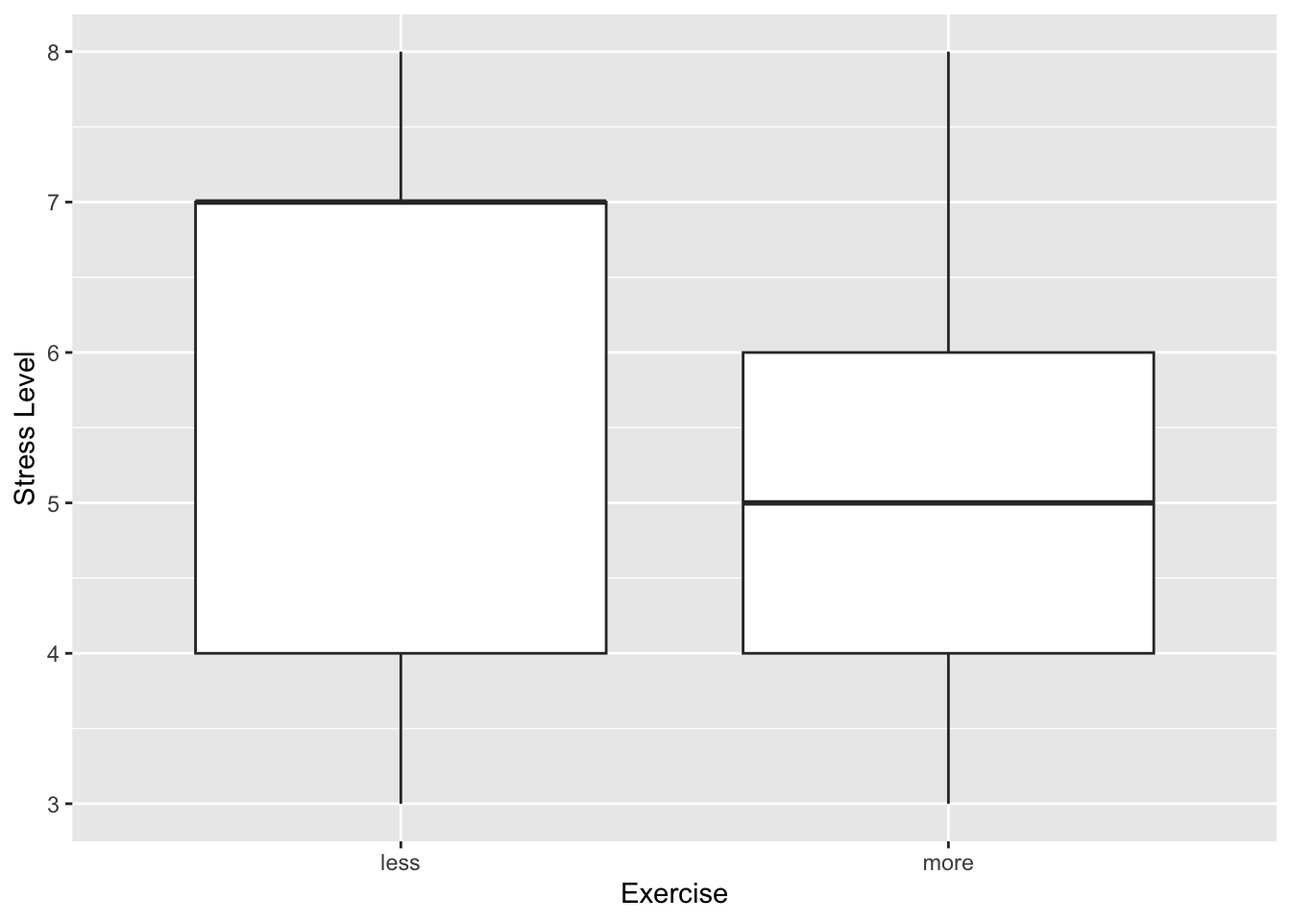
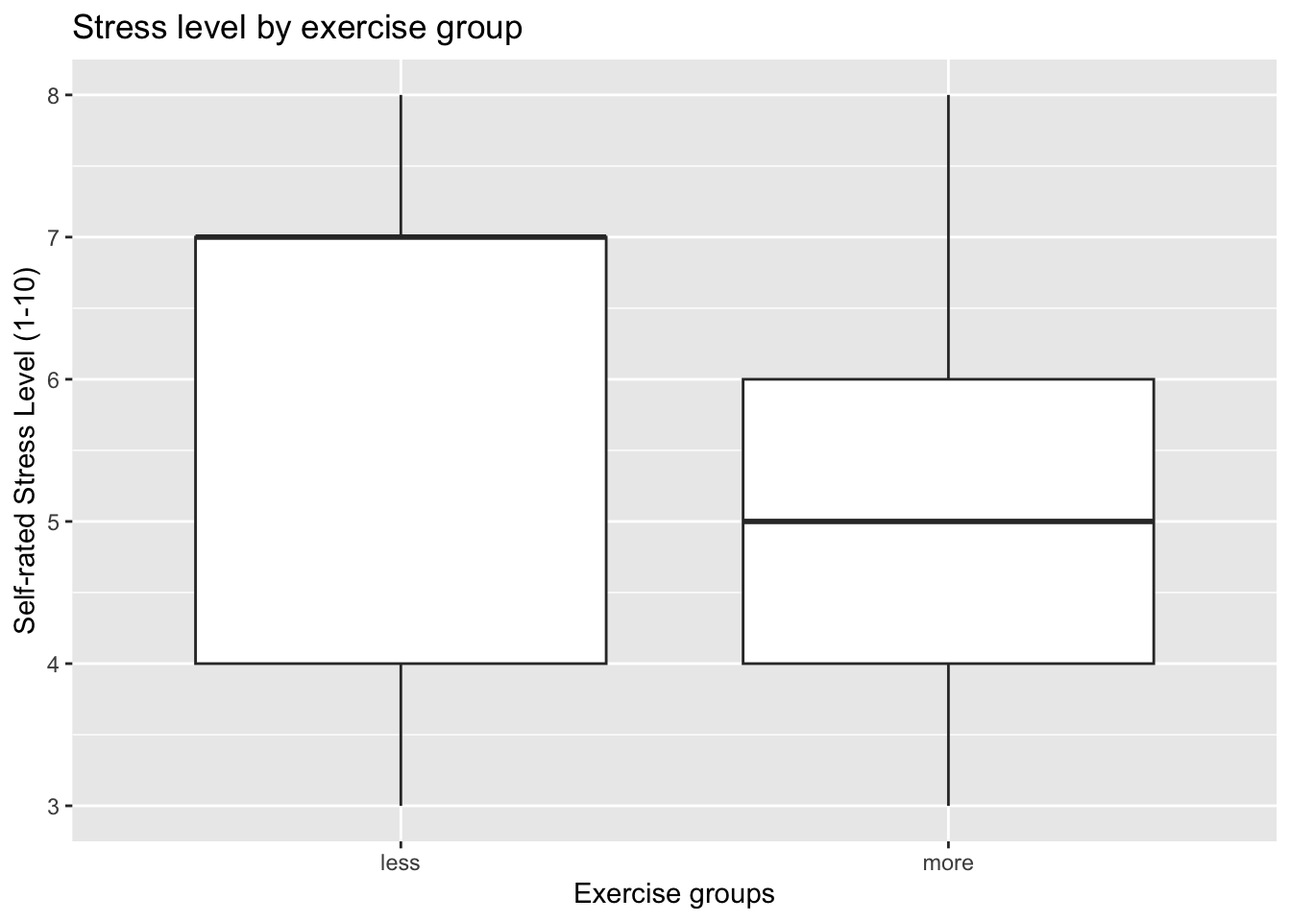
working in progress

diff --git a/docs/Simulation.html b/docs/Simulation.html
@@ -392,14 +392,14 @@ pre > code.sourceCode > span > a:first-child::before { text-decoration: underlin
 
 <p><strong>Credit:</strong> Laksika Tharmalingam created this dataset and is available on <a href="https://www.kaggle.com/datasets/uom190346a/sleep-health-and-lifestyle-dataset?resource=download">Kaggle</a>, where I downloaded the CSV file.</p>
 <p><strong>Dataset Overview:</strong></p>
-<p>The Sleep Health and Lifestyle Dataset comprises 400 rows and 13 columns, covering a wide range of variables related to sleep and daily habits. It includes details such as gender, age, occupation, sleep duration, quality of sleep, physical activity level, stress levels, BMI category, blood pressure, heart rate, daily steps, and the presence or absence of sleep disorder.</p>
+<p>The Sleep Health and Lifestyle Dataset comprises 374 rows and 13 columns, covering a wide range of variables related to sleep and daily habits. It includes details such as gender, age, occupation, sleep duration, quality of sleep, physical activity level, stress levels, BMI category, blood pressure, heart rate, daily steps, and the presence or absence of sleep disorder. Each row represents a person.</p>
 <p>In this permutation test, I will use columns:</p>
 <ul>
 <li><p>Stress Level (scale: 1-10): A subjective rating of the stress level experienced by the person, ranging from 1 to 10.</p></li>
 <li><p>Physical Activity Level (minutes/day): The number of minutes the person engages in physical activity daily.</p></li>
 </ul>
-<p>I want to explore whether people who do more physical activity daily have lower stress levels. In this test, we will first wrangle the data, to see if we need to exclude those with a sleep disorder to prevent skewed results. Then we will split up the group by the median physical activity into high and low physical activity.</p>
-<p>The null hypothesis is that the stress level will be the same regardless of their daily physical activity. The alternative hypothesis is that more exercise leads to less stress.</p>
+<p>I want to explore whether people who do more physical activity daily have lower stress levels. In this test, we will first split up the dataset into high- or low-physical-activity groups. Then we will</p>
+<p>The null hypothesis is that the stress level will be the same regardless of their daily physical activity. The alternative hypothesis is that more exercise leads to lower stress level.</p>
 <div class="cell">
 <details class="code-fold">
 <summary>Code</summary>
@@ -432,23 +432,30 @@ pre > code.sourceCode > span > a:first-child::before { text-decoration: underlin
 <span id="cb4-5"><a href="#cb4-5" aria-hidden="true" tabindex="-1"></a>    )</span>
 <span id="cb4-6"><a href="#cb4-6" aria-hidden="true" tabindex="-1"></a>health <span class="sc">|&gt;</span> </span>
 <span id="cb4-7"><a href="#cb4-7" aria-hidden="true" tabindex="-1"></a>    <span class="fu">group_by</span>(Exercise) <span class="sc">|&gt;</span> </span>
-<span id="cb4-8"><a href="#cb4-8" aria-hidden="true" tabindex="-1"></a>    <span class="fu">summarize</span>(<span class="at">avg_sress =</span> <span class="fu">mean</span>(<span class="st">`</span><span class="at">Stress Level</span><span class="st">`</span>))</span></code></pre></div><button title="Copy to Clipboard" class="code-copy-button"><i class="bi"></i></button></div>
+<span id="cb4-8"><a href="#cb4-8" aria-hidden="true" tabindex="-1"></a>    <span class="fu">summarize</span>(</span>
+<span id="cb4-9"><a href="#cb4-9" aria-hidden="true" tabindex="-1"></a>        <span class="at">avg_stress =</span> <span class="fu">mean</span>(<span class="st">`</span><span class="at">Stress Level</span><span class="st">`</span>),</span>
+<span id="cb4-10"><a href="#cb4-10" aria-hidden="true" tabindex="-1"></a>        <span class="at">avg_exercise_time =</span> <span class="fu">mean</span>(<span class="st">`</span><span class="at">Physical Activity Level</span><span class="st">`</span>),</span>
+<span id="cb4-11"><a href="#cb4-11" aria-hidden="true" tabindex="-1"></a>        <span class="at">med_exercise_time =</span> <span class="fu">median</span>(<span class="st">`</span><span class="at">Physical Activity Level</span><span class="st">`</span>) </span>
+<span id="cb4-12"><a href="#cb4-12" aria-hidden="true" tabindex="-1"></a>    )</span></code></pre></div><button title="Copy to Clipboard" class="code-copy-button"><i class="bi"></i></button></div>
 </details>
 <div class="cell-output cell-output-stdout">
-<pre><code># A tibble: 2 × 2
-  Exercise avg_sress
-  &lt;chr&gt;        &lt;dbl&gt;
-1 less          5.80
-2 more          5.08</code></pre>
+<pre><code># A tibble: 2 × 4
+  Exercise avg_stress avg_exercise_time med_exercise_time
+  &lt;chr&gt;         &lt;dbl&gt;             &lt;dbl&gt;             &lt;dbl&gt;
+1 less           5.80              38.5                42
+2 more           5.08              74.8                75</code></pre>
 </div>
 </div>
-<p>Visualize the relationship of interest</p>
+<p>This boxplot visualized the observed</p>
 <div class="cell">
 <details class="code-fold">
 <summary>Code</summary>
 <div class="code-copy-outer-scaffold"><div class="sourceCode cell-code" id="cb6"><pre class="sourceCode r code-with-copy"><code class="sourceCode r"><span id="cb6-1"><a href="#cb6-1" aria-hidden="true" tabindex="-1"></a>health <span class="sc">|&gt;</span> </span>
 <span id="cb6-2"><a href="#cb6-2" aria-hidden="true" tabindex="-1"></a>    <span class="fu">ggplot</span>(<span class="fu">aes</span>(<span class="at">x =</span> Exercise, <span class="at">y =</span> <span class="st">`</span><span class="at">Stress Level</span><span class="st">`</span>))<span class="sc">+</span></span>
-<span id="cb6-3"><a href="#cb6-3" aria-hidden="true" tabindex="-1"></a>    <span class="fu">geom_boxplot</span>()</span></code></pre></div><button title="Copy to Clipboard" class="code-copy-button"><i class="bi"></i></button></div>
+<span id="cb6-3"><a href="#cb6-3" aria-hidden="true" tabindex="-1"></a>    <span class="fu">geom_boxplot</span>()<span class="sc">+</span></span>
+<span id="cb6-4"><a href="#cb6-4" aria-hidden="true" tabindex="-1"></a>    <span class="fu">labs</span>(<span class="at">x =</span> <span class="st">"Exercise groups"</span>,</span>
+<span id="cb6-5"><a href="#cb6-5" aria-hidden="true" tabindex="-1"></a>    <span class="at">y =</span> <span class="st">"Self-rated Stress Level (1-10)"</span>,</span>
+<span id="cb6-6"><a href="#cb6-6" aria-hidden="true" tabindex="-1"></a>    <span class="at">title =</span> <span class="st">"Stress level by exercise group"</span>)</span></code></pre></div><button title="Copy to Clipboard" class="code-copy-button"><i class="bi"></i></button></div>
 </details>
 <div class="cell-output-display">
 <div>
@@ -481,14 +488,21 @@ pre > code.sourceCode > span > a:first-child::before { text-decoration: underlin
 <div class="cell">
 <details class="code-fold">
 <summary>Code</summary>
-<div class="code-copy-outer-scaffold"><div class="sourceCode cell-code" id="cb8"><pre class="sourceCode r code-with-copy"><code class="sourceCode r"><span id="cb8-1"><a href="#cb8-1" aria-hidden="true" tabindex="-1"></a><span class="fu">set.seed</span>(<span class="dv">500</span>)</span>
-<span id="cb8-2"><a href="#cb8-2" aria-hidden="true" tabindex="-1"></a>perm_stats <span class="ot">&lt;-</span> <span class="fu">map</span>(<span class="fu">c</span>(<span class="dv">1</span><span class="sc">:</span><span class="dv">500</span>), perm_health, health) <span class="sc">|&gt;</span> </span>
+<div class="code-copy-outer-scaffold"><div class="sourceCode cell-code" id="cb8"><pre class="sourceCode r code-with-copy"><code class="sourceCode r"><span id="cb8-1"><a href="#cb8-1" aria-hidden="true" tabindex="-1"></a><span class="fu">set.seed</span>(<span class="dv">5000</span>) <span class="co">#fix the results of this shuffle</span></span>
+<span id="cb8-2"><a href="#cb8-2" aria-hidden="true" tabindex="-1"></a>perm_stats <span class="ot">&lt;-</span> <span class="fu">map</span>(<span class="fu">c</span>(<span class="dv">1</span><span class="sc">:</span><span class="dv">5000</span>), perm_health, health) <span class="sc">|&gt;</span> </span>
 <span id="cb8-3"><a href="#cb8-3" aria-hidden="true" tabindex="-1"></a>    <span class="fu">list_rbind</span>()</span>
 <span id="cb8-4"><a href="#cb8-4" aria-hidden="true" tabindex="-1"></a></span>
 <span id="cb8-5"><a href="#cb8-5" aria-hidden="true" tabindex="-1"></a>perm_stats <span class="sc">|&gt;</span> </span>
 <span id="cb8-6"><a href="#cb8-6" aria-hidden="true" tabindex="-1"></a>    <span class="fu">ggplot</span>(<span class="fu">aes</span>(<span class="at">x =</span> perm_avg_diff))<span class="sc">+</span></span>
-<span id="cb8-7"><a href="#cb8-7" aria-hidden="true" tabindex="-1"></a>    <span class="fu">geom_histogram</span>(<span class="at">binwidth =</span> .<span class="dv">03</span>)<span class="sc">+</span></span>
-<span id="cb8-8"><a href="#cb8-8" aria-hidden="true" tabindex="-1"></a>    <span class="fu">geom_vline</span>(<span class="fu">aes</span>(<span class="at">xintercept =</span> observe_avg_diff), <span class="at">color =</span> <span class="st">"red"</span>)</span></code></pre></div><button title="Copy to Clipboard" class="code-copy-button"><i class="bi"></i></button></div>
+<span id="cb8-7"><a href="#cb8-7" aria-hidden="true" tabindex="-1"></a>    <span class="fu">geom_histogram</span>(<span class="at">binwidth =</span> .<span class="dv">07</span>)<span class="sc">+</span></span>
+<span id="cb8-8"><a href="#cb8-8" aria-hidden="true" tabindex="-1"></a>    <span class="fu">geom_vline</span>(<span class="fu">aes</span>(<span class="at">xintercept =</span> observe_avg_diff, <span class="at">color =</span> <span class="st">"Observed average difference </span><span class="sc">\n</span><span class="st">-0.72"</span>))<span class="sc">+</span></span>
+<span id="cb8-9"><a href="#cb8-9" aria-hidden="true" tabindex="-1"></a>    <span class="fu">scale_color_manual</span>(<span class="at">values =</span> <span class="fu">c</span>(<span class="st">"Observed average difference </span><span class="sc">\n</span><span class="st">-0.72"</span> <span class="ot">=</span> <span class="st">"red"</span>))<span class="sc">+</span></span>
+<span id="cb8-10"><a href="#cb8-10" aria-hidden="true" tabindex="-1"></a>    <span class="fu">labs</span>(</span>
+<span id="cb8-11"><a href="#cb8-11" aria-hidden="true" tabindex="-1"></a>        <span class="at">title =</span> <span class="st">"Null sampling distribution (Average)"</span>,</span>
+<span id="cb8-12"><a href="#cb8-12" aria-hidden="true" tabindex="-1"></a>        <span class="at">subtitle =</span> <span class="st">"Bindwisth = .07"</span>,</span>
+<span id="cb8-13"><a href="#cb8-13" aria-hidden="true" tabindex="-1"></a>        <span class="at">x =</span> <span class="st">"Permuted difference in average stress (more minus less)"</span>,</span>
+<span id="cb8-14"><a href="#cb8-14" aria-hidden="true" tabindex="-1"></a>        <span class="at">y =</span> <span class="st">"Number of shuffles"</span></span>
+<span id="cb8-15"><a href="#cb8-15" aria-hidden="true" tabindex="-1"></a>    )</span></code></pre></div><button title="Copy to Clipboard" class="code-copy-button"><i class="bi"></i></button></div>
 </details>
 <div class="cell-output-display">
 <div>
@@ -496,6 +510,21 @@ pre > code.sourceCode > span > a:first-child::before { text-decoration: underlin
 <p><img src="Simulation_files/figure-html/unnamed-chunk-6-1.png" class="img-fluid figure-img" width="672"></p>
 </figure>
 </div>
+</div>
+</div>
+<p>P-value</p>
+<div class="cell">
+<details class="code-fold">
+<summary>Code</summary>
+<div class="code-copy-outer-scaffold"><div class="sourceCode cell-code" id="cb9"><pre class="sourceCode r code-with-copy"><code class="sourceCode r"><span id="cb9-1"><a href="#cb9-1" aria-hidden="true" tabindex="-1"></a>perm_stats <span class="sc">|&gt;</span></span>
+<span id="cb9-2"><a href="#cb9-2" aria-hidden="true" tabindex="-1"></a>  <span class="fu">summarize</span>(</span>
+<span id="cb9-3"><a href="#cb9-3" aria-hidden="true" tabindex="-1"></a>    <span class="at">p_val_ave =</span> <span class="fu">mean</span>(observe_avg_diff <span class="sc">&gt;</span> perm_avg_diff))</span></code></pre></div><button title="Copy to Clipboard" class="code-copy-button"><i class="bi"></i></button></div>
+</details>
+<div class="cell-output cell-output-stdout">
+<pre><code># A tibble: 1 × 1
+  p_val_ave
+      &lt;dbl&gt;
+1         0</code></pre>
 </div>
 </div>
 
@@ -1079,103 +1108,126 @@ pre > code.sourceCode > span > a:first-child::before { text-decoration: underlin
   <script type="application/javascript">
   window.quartoScrollableRegionsLabels = {"code":"Scrollable code","output":"Scrollable output"};
   </script><div class="modal fade" id="quarto-embedded-source-code-modal" tabindex="-1" aria-labelledby="quarto-embedded-source-code-modal-label" aria-hidden="true"><div class="modal-dialog modal-dialog-scrollable"><div class="modal-content"><div class="modal-header"><h5 class="modal-title" id="quarto-embedded-source-code-modal-label">Source Code</h5><button class="btn-close" data-bs-dismiss="modal"></button></div><div class="modal-body"><div class="">
-<div class="code-copy-outer-scaffold"><div class="sourceCode" id="cb9" data-shortcodes="false"><pre class="sourceCode markdown code-with-copy"><code class="sourceCode markdown"><span id="cb9-1"><a href="#cb9-1" aria-hidden="true" tabindex="-1"></a><span class="co">---</span></span>
-<span id="cb9-2"><a href="#cb9-2" aria-hidden="true" tabindex="-1"></a><span class="an">title:</span><span class="co"> "Permutation Test"</span></span>
-<span id="cb9-3"><a href="#cb9-3" aria-hidden="true" tabindex="-1"></a><span class="an">description:</span><span class="co"> "Exploring the relation between physical activity and stress level"</span></span>
-<span id="cb9-4"><a href="#cb9-4" aria-hidden="true" tabindex="-1"></a><span class="co">  </span></span>
-<span id="cb9-5"><a href="#cb9-5" aria-hidden="true" tabindex="-1"></a><span class="an">author:</span><span class="co"> Molly Liao</span></span>
-<span id="cb9-6"><a href="#cb9-6" aria-hidden="true" tabindex="-1"></a><span class="an">date:</span><span class="co"> November 5, 2026</span></span>
-<span id="cb9-7"><a href="#cb9-7" aria-hidden="true" tabindex="-1"></a><span class="an">format:</span></span>
-<span id="cb9-8"><a href="#cb9-8" aria-hidden="true" tabindex="-1"></a><span class="co">  html:</span></span>
-<span id="cb9-9"><a href="#cb9-9" aria-hidden="true" tabindex="-1"></a><span class="co">    code-fold: true</span></span>
-<span id="cb9-10"><a href="#cb9-10" aria-hidden="true" tabindex="-1"></a><span class="co">    code-tools: true</span></span>
-<span id="cb9-11"><a href="#cb9-11" aria-hidden="true" tabindex="-1"></a><span class="co">    source: true</span></span>
-<span id="cb9-12"><a href="#cb9-12" aria-hidden="true" tabindex="-1"></a><span class="co">    code-overflow: wrap</span></span>
-<span id="cb9-13"><a href="#cb9-13" aria-hidden="true" tabindex="-1"></a><span class="an">execute:</span><span class="co"> </span></span>
-<span id="cb9-14"><a href="#cb9-14" aria-hidden="true" tabindex="-1"></a><span class="co">  warning: false</span></span>
-<span id="cb9-15"><a href="#cb9-15" aria-hidden="true" tabindex="-1"></a><span class="co">  message: false</span></span>
-<span id="cb9-16"><a href="#cb9-16" aria-hidden="true" tabindex="-1"></a><span class="co">---</span></span>
-<span id="cb9-17"><a href="#cb9-17" aria-hidden="true" tabindex="-1"></a>**Credit:** </span>
-<span id="cb9-18"><a href="#cb9-18" aria-hidden="true" tabindex="-1"></a>Laksika Tharmalingam created this dataset and is available on <span class="co">[</span><span class="ot">Kaggle</span><span class="co">](https://www.kaggle.com/datasets/uom190346a/sleep-health-and-lifestyle-dataset?resource=download)</span>, where I downloaded the CSV file. </span>
-<span id="cb9-19"><a href="#cb9-19" aria-hidden="true" tabindex="-1"></a></span>
-<span id="cb9-20"><a href="#cb9-20" aria-hidden="true" tabindex="-1"></a>**Dataset Overview:**</span>
-<span id="cb9-21"><a href="#cb9-21" aria-hidden="true" tabindex="-1"></a></span>
-<span id="cb9-22"><a href="#cb9-22" aria-hidden="true" tabindex="-1"></a>The Sleep Health and Lifestyle Dataset comprises 400 rows and 13 columns, covering a wide range of variables related to sleep and daily habits. It includes details such as gender, age, occupation, sleep duration, quality of sleep, physical activity level, stress levels, BMI category, blood pressure, heart rate, daily steps, and the presence or absence of sleep disorder. </span>
-<span id="cb9-23"><a href="#cb9-23" aria-hidden="true" tabindex="-1"></a></span>
-<span id="cb9-24"><a href="#cb9-24" aria-hidden="true" tabindex="-1"></a>In this permutation test, I will use columns:</span>
-<span id="cb9-25"><a href="#cb9-25" aria-hidden="true" tabindex="-1"></a></span>
-<span id="cb9-26"><a href="#cb9-26" aria-hidden="true" tabindex="-1"></a><span class="ss">- </span>Stress Level (scale: 1-10): A subjective rating of the stress level experienced by the person, ranging from 1 to 10.</span>
-<span id="cb9-27"><a href="#cb9-27" aria-hidden="true" tabindex="-1"></a></span>
-<span id="cb9-28"><a href="#cb9-28" aria-hidden="true" tabindex="-1"></a><span class="ss">- </span>Physical Activity Level (minutes/day): The number of minutes the person engages in physical activity daily.</span>
-<span id="cb9-29"><a href="#cb9-29" aria-hidden="true" tabindex="-1"></a></span>
-<span id="cb9-30"><a href="#cb9-30" aria-hidden="true" tabindex="-1"></a>I want to explore whether people who do more physical activity daily have lower stress levels. In this test, we will first wrangle the data, to see if we need to exclude those with a sleep disorder to prevent skewed results. Then we will split up the group by the median physical activity into high and low physical activity.</span>
-<span id="cb9-31"><a href="#cb9-31" aria-hidden="true" tabindex="-1"></a></span>
-<span id="cb9-32"><a href="#cb9-32" aria-hidden="true" tabindex="-1"></a>The null hypothesis is that the stress level will be the same regardless of their daily physical activity. The alternative hypothesis is that more exercise leads to less stress.  </span>
-<span id="cb9-33"><a href="#cb9-33" aria-hidden="true" tabindex="-1"></a></span>
-<span id="cb9-36"><a href="#cb9-36" aria-hidden="true" tabindex="-1"></a><span class="in">```{r}</span></span>
-<span id="cb9-37"><a href="#cb9-37" aria-hidden="true" tabindex="-1"></a><span class="fu">library</span>(ggplot2)</span>
-<span id="cb9-38"><a href="#cb9-38" aria-hidden="true" tabindex="-1"></a><span class="fu">library</span>(tidyverse)</span>
-<span id="cb9-39"><a href="#cb9-39" aria-hidden="true" tabindex="-1"></a>health <span class="ot">&lt;-</span> <span class="fu">read_csv</span>(<span class="st">"Sleep_health_and_lifestyle_dataset.csv"</span>)</span>
-<span id="cb9-40"><a href="#cb9-40" aria-hidden="true" tabindex="-1"></a><span class="in">```</span></span>
-<span id="cb9-41"><a href="#cb9-41" aria-hidden="true" tabindex="-1"></a></span>
-<span id="cb9-42"><a href="#cb9-42" aria-hidden="true" tabindex="-1"></a></span>
-<span id="cb9-45"><a href="#cb9-45" aria-hidden="true" tabindex="-1"></a><span class="in">```{r}</span></span>
-<span id="cb9-46"><a href="#cb9-46" aria-hidden="true" tabindex="-1"></a>health <span class="sc">|&gt;</span> </span>
-<span id="cb9-47"><a href="#cb9-47" aria-hidden="true" tabindex="-1"></a>    <span class="fu">summarize</span>(<span class="at">avg_exercise =</span> <span class="fu">mean</span>(<span class="st">`</span><span class="at">Physical Activity Level</span><span class="st">`</span>, <span class="at">na.rm =</span> <span class="cn">TRUE</span>), <span class="at">med_exercise =</span> <span class="fu">median</span>(<span class="st">`</span><span class="at">Physical Activity Level</span><span class="st">`</span>))</span>
-<span id="cb9-48"><a href="#cb9-48" aria-hidden="true" tabindex="-1"></a><span class="in">```</span></span>
-<span id="cb9-49"><a href="#cb9-49" aria-hidden="true" tabindex="-1"></a></span>
-<span id="cb9-50"><a href="#cb9-50" aria-hidden="true" tabindex="-1"></a>Based on the median and average minutes of physical activity, we will use 60 as a cutoff.</span>
-<span id="cb9-51"><a href="#cb9-51" aria-hidden="true" tabindex="-1"></a><span class="ss">- </span>Equal or more than 60 minutes will be the "more" group.</span>
-<span id="cb9-52"><a href="#cb9-52" aria-hidden="true" tabindex="-1"></a><span class="ss">- </span>Less than 60 minutes will be the "less" group.  </span>
-<span id="cb9-53"><a href="#cb9-53" aria-hidden="true" tabindex="-1"></a></span>
-<span id="cb9-56"><a href="#cb9-56" aria-hidden="true" tabindex="-1"></a><span class="in">```{r}</span></span>
-<span id="cb9-57"><a href="#cb9-57" aria-hidden="true" tabindex="-1"></a>health <span class="ot">&lt;-</span> health <span class="sc">|&gt;</span> </span>
-<span id="cb9-58"><a href="#cb9-58" aria-hidden="true" tabindex="-1"></a>    <span class="fu">select</span>(<span class="st">`</span><span class="at">Physical Activity Level</span><span class="st">`</span>, <span class="st">`</span><span class="at">Stress Level</span><span class="st">`</span>) <span class="sc">|&gt;</span> </span>
-<span id="cb9-59"><a href="#cb9-59" aria-hidden="true" tabindex="-1"></a>    <span class="fu">mutate</span>(</span>
-<span id="cb9-60"><a href="#cb9-60" aria-hidden="true" tabindex="-1"></a>        <span class="at">Exercise =</span> <span class="fu">if_else</span>(<span class="st">`</span><span class="at">Physical Activity Level</span><span class="st">`</span> <span class="sc">&gt;=</span> <span class="dv">60</span>, <span class="st">"more"</span>, <span class="st">"less"</span>)</span>
-<span id="cb9-61"><a href="#cb9-61" aria-hidden="true" tabindex="-1"></a>    )</span>
-<span id="cb9-62"><a href="#cb9-62" aria-hidden="true" tabindex="-1"></a>health <span class="sc">|&gt;</span> </span>
-<span id="cb9-63"><a href="#cb9-63" aria-hidden="true" tabindex="-1"></a>    <span class="fu">group_by</span>(Exercise) <span class="sc">|&gt;</span> </span>
-<span id="cb9-64"><a href="#cb9-64" aria-hidden="true" tabindex="-1"></a>    <span class="fu">summarize</span>(<span class="at">avg_sress =</span> <span class="fu">mean</span>(<span class="st">`</span><span class="at">Stress Level</span><span class="st">`</span>))</span>
-<span id="cb9-65"><a href="#cb9-65" aria-hidden="true" tabindex="-1"></a></span>
-<span id="cb9-66"><a href="#cb9-66" aria-hidden="true" tabindex="-1"></a><span class="in">```</span></span>
-<span id="cb9-67"><a href="#cb9-67" aria-hidden="true" tabindex="-1"></a></span>
-<span id="cb9-68"><a href="#cb9-68" aria-hidden="true" tabindex="-1"></a>Visualize the relationship of interest</span>
-<span id="cb9-71"><a href="#cb9-71" aria-hidden="true" tabindex="-1"></a><span class="in">```{r}</span></span>
-<span id="cb9-72"><a href="#cb9-72" aria-hidden="true" tabindex="-1"></a>health <span class="sc">|&gt;</span> </span>
-<span id="cb9-73"><a href="#cb9-73" aria-hidden="true" tabindex="-1"></a>    <span class="fu">ggplot</span>(<span class="fu">aes</span>(<span class="at">x =</span> Exercise, <span class="at">y =</span> <span class="st">`</span><span class="at">Stress Level</span><span class="st">`</span>))<span class="sc">+</span></span>
-<span id="cb9-74"><a href="#cb9-74" aria-hidden="true" tabindex="-1"></a>    <span class="fu">geom_boxplot</span>()</span>
-<span id="cb9-75"><a href="#cb9-75" aria-hidden="true" tabindex="-1"></a><span class="in">```</span></span>
-<span id="cb9-76"><a href="#cb9-76" aria-hidden="true" tabindex="-1"></a></span>
-<span id="cb9-77"><a href="#cb9-77" aria-hidden="true" tabindex="-1"></a>Generate a null sampling distribution.</span>
-<span id="cb9-78"><a href="#cb9-78" aria-hidden="true" tabindex="-1"></a></span>
-<span id="cb9-81"><a href="#cb9-81" aria-hidden="true" tabindex="-1"></a><span class="in">```{r}</span></span>
-<span id="cb9-82"><a href="#cb9-82" aria-hidden="true" tabindex="-1"></a>perm_health <span class="ot">&lt;-</span> <span class="cf">function</span>(rep, health){</span>
-<span id="cb9-83"><a href="#cb9-83" aria-hidden="true" tabindex="-1"></a>    health <span class="sc">|&gt;</span> </span>
-<span id="cb9-84"><a href="#cb9-84" aria-hidden="true" tabindex="-1"></a>        <span class="fu">mutate</span>(<span class="at">stress_perm =</span> <span class="fu">sample</span>(<span class="st">`</span><span class="at">Stress Level</span><span class="st">`</span>, <span class="at">replace =</span> <span class="cn">FALSE</span>)) <span class="sc">|&gt;</span> </span>
-<span id="cb9-85"><a href="#cb9-85" aria-hidden="true" tabindex="-1"></a>        <span class="fu">group_by</span>(Exercise) <span class="sc">|&gt;</span> </span>
-<span id="cb9-86"><a href="#cb9-86" aria-hidden="true" tabindex="-1"></a>        <span class="fu">summarize</span>(</span>
-<span id="cb9-87"><a href="#cb9-87" aria-hidden="true" tabindex="-1"></a>            <span class="at">observe_avg =</span> <span class="fu">mean</span>(<span class="st">`</span><span class="at">Stress Level</span><span class="st">`</span>),</span>
-<span id="cb9-88"><a href="#cb9-88" aria-hidden="true" tabindex="-1"></a>            <span class="at">perm_avg =</span> <span class="fu">mean</span>(stress_perm)</span>
-<span id="cb9-89"><a href="#cb9-89" aria-hidden="true" tabindex="-1"></a>        ) <span class="sc">|&gt;</span> </span>
-<span id="cb9-90"><a href="#cb9-90" aria-hidden="true" tabindex="-1"></a>        <span class="fu">summarize</span>(</span>
-<span id="cb9-91"><a href="#cb9-91" aria-hidden="true" tabindex="-1"></a>            <span class="at">observe_avg_diff =</span> <span class="fu">diff</span>(observe_avg),</span>
-<span id="cb9-92"><a href="#cb9-92" aria-hidden="true" tabindex="-1"></a>            <span class="at">perm_avg_diff =</span> <span class="fu">diff</span>(perm_avg),</span>
-<span id="cb9-93"><a href="#cb9-93" aria-hidden="true" tabindex="-1"></a>            <span class="at">rep =</span> rep</span>
-<span id="cb9-94"><a href="#cb9-94" aria-hidden="true" tabindex="-1"></a>        )</span>
-<span id="cb9-95"><a href="#cb9-95" aria-hidden="true" tabindex="-1"></a>}</span>
-<span id="cb9-96"><a href="#cb9-96" aria-hidden="true" tabindex="-1"></a><span class="in">```</span></span>
-<span id="cb9-97"><a href="#cb9-97" aria-hidden="true" tabindex="-1"></a></span>
-<span id="cb9-100"><a href="#cb9-100" aria-hidden="true" tabindex="-1"></a><span class="in">```{r}</span></span>
-<span id="cb9-101"><a href="#cb9-101" aria-hidden="true" tabindex="-1"></a><span class="fu">set.seed</span>(<span class="dv">500</span>)</span>
-<span id="cb9-102"><a href="#cb9-102" aria-hidden="true" tabindex="-1"></a>perm_stats <span class="ot">&lt;-</span> <span class="fu">map</span>(<span class="fu">c</span>(<span class="dv">1</span><span class="sc">:</span><span class="dv">500</span>), perm_health, health) <span class="sc">|&gt;</span> </span>
-<span id="cb9-103"><a href="#cb9-103" aria-hidden="true" tabindex="-1"></a>    <span class="fu">list_rbind</span>()</span>
-<span id="cb9-104"><a href="#cb9-104" aria-hidden="true" tabindex="-1"></a></span>
-<span id="cb9-105"><a href="#cb9-105" aria-hidden="true" tabindex="-1"></a>perm_stats <span class="sc">|&gt;</span> </span>
-<span id="cb9-106"><a href="#cb9-106" aria-hidden="true" tabindex="-1"></a>    <span class="fu">ggplot</span>(<span class="fu">aes</span>(<span class="at">x =</span> perm_avg_diff))<span class="sc">+</span></span>
-<span id="cb9-107"><a href="#cb9-107" aria-hidden="true" tabindex="-1"></a>    <span class="fu">geom_histogram</span>(<span class="at">binwidth =</span> .<span class="dv">03</span>)<span class="sc">+</span></span>
-<span id="cb9-108"><a href="#cb9-108" aria-hidden="true" tabindex="-1"></a>    <span class="fu">geom_vline</span>(<span class="fu">aes</span>(<span class="at">xintercept =</span> observe_avg_diff), <span class="at">color =</span> <span class="st">"red"</span>)</span>
-<span id="cb9-109"><a href="#cb9-109" aria-hidden="true" tabindex="-1"></a><span class="in">```</span></span>
+<div class="code-copy-outer-scaffold"><div class="sourceCode" id="cb11" data-shortcodes="false"><pre class="sourceCode markdown code-with-copy"><code class="sourceCode markdown"><span id="cb11-1"><a href="#cb11-1" aria-hidden="true" tabindex="-1"></a><span class="co">---</span></span>
+<span id="cb11-2"><a href="#cb11-2" aria-hidden="true" tabindex="-1"></a><span class="an">title:</span><span class="co"> "Permutation Test"</span></span>
+<span id="cb11-3"><a href="#cb11-3" aria-hidden="true" tabindex="-1"></a><span class="an">description:</span><span class="co"> "Exploring the relation between physical activity and stress level"</span></span>
+<span id="cb11-4"><a href="#cb11-4" aria-hidden="true" tabindex="-1"></a><span class="co">  </span></span>
+<span id="cb11-5"><a href="#cb11-5" aria-hidden="true" tabindex="-1"></a><span class="an">author:</span><span class="co"> Molly Liao</span></span>
+<span id="cb11-6"><a href="#cb11-6" aria-hidden="true" tabindex="-1"></a><span class="an">date:</span><span class="co"> November 5, 2026</span></span>
+<span id="cb11-7"><a href="#cb11-7" aria-hidden="true" tabindex="-1"></a><span class="an">format:</span></span>
+<span id="cb11-8"><a href="#cb11-8" aria-hidden="true" tabindex="-1"></a><span class="co">  html:</span></span>
+<span id="cb11-9"><a href="#cb11-9" aria-hidden="true" tabindex="-1"></a><span class="co">    code-fold: true</span></span>
+<span id="cb11-10"><a href="#cb11-10" aria-hidden="true" tabindex="-1"></a><span class="co">    code-tools: true</span></span>
+<span id="cb11-11"><a href="#cb11-11" aria-hidden="true" tabindex="-1"></a><span class="co">    source: true</span></span>
+<span id="cb11-12"><a href="#cb11-12" aria-hidden="true" tabindex="-1"></a><span class="co">    code-overflow: wrap</span></span>
+<span id="cb11-13"><a href="#cb11-13" aria-hidden="true" tabindex="-1"></a><span class="an">execute:</span><span class="co"> </span></span>
+<span id="cb11-14"><a href="#cb11-14" aria-hidden="true" tabindex="-1"></a><span class="co">  warning: false</span></span>
+<span id="cb11-15"><a href="#cb11-15" aria-hidden="true" tabindex="-1"></a><span class="co">  message: false</span></span>
+<span id="cb11-16"><a href="#cb11-16" aria-hidden="true" tabindex="-1"></a><span class="co">---</span></span>
+<span id="cb11-17"><a href="#cb11-17" aria-hidden="true" tabindex="-1"></a>**Credit:** </span>
+<span id="cb11-18"><a href="#cb11-18" aria-hidden="true" tabindex="-1"></a>Laksika Tharmalingam created this dataset and is available on <span class="co">[</span><span class="ot">Kaggle</span><span class="co">](https://www.kaggle.com/datasets/uom190346a/sleep-health-and-lifestyle-dataset?resource=download)</span>, where I downloaded the CSV file. </span>
+<span id="cb11-19"><a href="#cb11-19" aria-hidden="true" tabindex="-1"></a></span>
+<span id="cb11-20"><a href="#cb11-20" aria-hidden="true" tabindex="-1"></a>**Dataset Overview:**</span>
+<span id="cb11-21"><a href="#cb11-21" aria-hidden="true" tabindex="-1"></a></span>
+<span id="cb11-22"><a href="#cb11-22" aria-hidden="true" tabindex="-1"></a>The Sleep Health and Lifestyle Dataset comprises 374 rows and 13 columns, covering a wide range of variables related to sleep and daily habits. It includes details such as gender, age, occupation, sleep duration, quality of sleep, physical activity level, stress levels, BMI category, blood pressure, heart rate, daily steps, and the presence or absence of sleep disorder. Each row represents a person. </span>
+<span id="cb11-23"><a href="#cb11-23" aria-hidden="true" tabindex="-1"></a></span>
+<span id="cb11-24"><a href="#cb11-24" aria-hidden="true" tabindex="-1"></a>In this permutation test, I will use columns:</span>
+<span id="cb11-25"><a href="#cb11-25" aria-hidden="true" tabindex="-1"></a></span>
+<span id="cb11-26"><a href="#cb11-26" aria-hidden="true" tabindex="-1"></a><span class="ss">- </span>Stress Level (scale: 1-10): A subjective rating of the stress level experienced by the person, ranging from 1 to 10.</span>
+<span id="cb11-27"><a href="#cb11-27" aria-hidden="true" tabindex="-1"></a></span>
+<span id="cb11-28"><a href="#cb11-28" aria-hidden="true" tabindex="-1"></a><span class="ss">- </span>Physical Activity Level (minutes/day): The number of minutes the person engages in physical activity daily.</span>
+<span id="cb11-29"><a href="#cb11-29" aria-hidden="true" tabindex="-1"></a></span>
+<span id="cb11-30"><a href="#cb11-30" aria-hidden="true" tabindex="-1"></a>I want to explore whether people who do more physical activity daily have lower stress levels. In this test, we will first split up the dataset into high- or low-physical-activity groups. Then we will </span>
+<span id="cb11-31"><a href="#cb11-31" aria-hidden="true" tabindex="-1"></a></span>
+<span id="cb11-32"><a href="#cb11-32" aria-hidden="true" tabindex="-1"></a>The null hypothesis is that the stress level will be the same regardless of their daily physical activity. The alternative hypothesis is that more exercise leads to lower stress level.  </span>
+<span id="cb11-33"><a href="#cb11-33" aria-hidden="true" tabindex="-1"></a></span>
+<span id="cb11-36"><a href="#cb11-36" aria-hidden="true" tabindex="-1"></a><span class="in">```{r}</span></span>
+<span id="cb11-37"><a href="#cb11-37" aria-hidden="true" tabindex="-1"></a><span class="fu">library</span>(ggplot2)</span>
+<span id="cb11-38"><a href="#cb11-38" aria-hidden="true" tabindex="-1"></a><span class="fu">library</span>(tidyverse)</span>
+<span id="cb11-39"><a href="#cb11-39" aria-hidden="true" tabindex="-1"></a>health <span class="ot">&lt;-</span> <span class="fu">read_csv</span>(<span class="st">"Sleep_health_and_lifestyle_dataset.csv"</span>)</span>
+<span id="cb11-40"><a href="#cb11-40" aria-hidden="true" tabindex="-1"></a><span class="in">```</span></span>
+<span id="cb11-41"><a href="#cb11-41" aria-hidden="true" tabindex="-1"></a></span>
+<span id="cb11-42"><a href="#cb11-42" aria-hidden="true" tabindex="-1"></a></span>
+<span id="cb11-45"><a href="#cb11-45" aria-hidden="true" tabindex="-1"></a><span class="in">```{r}</span></span>
+<span id="cb11-46"><a href="#cb11-46" aria-hidden="true" tabindex="-1"></a>health <span class="sc">|&gt;</span> </span>
+<span id="cb11-47"><a href="#cb11-47" aria-hidden="true" tabindex="-1"></a>    <span class="fu">summarize</span>(<span class="at">avg_exercise =</span> <span class="fu">mean</span>(<span class="st">`</span><span class="at">Physical Activity Level</span><span class="st">`</span>, <span class="at">na.rm =</span> <span class="cn">TRUE</span>), <span class="at">med_exercise =</span> <span class="fu">median</span>(<span class="st">`</span><span class="at">Physical Activity Level</span><span class="st">`</span>))</span>
+<span id="cb11-48"><a href="#cb11-48" aria-hidden="true" tabindex="-1"></a><span class="in">```</span></span>
+<span id="cb11-49"><a href="#cb11-49" aria-hidden="true" tabindex="-1"></a></span>
+<span id="cb11-50"><a href="#cb11-50" aria-hidden="true" tabindex="-1"></a>Based on the median and average minutes of physical activity, we will use 60 as a cutoff.</span>
+<span id="cb11-51"><a href="#cb11-51" aria-hidden="true" tabindex="-1"></a><span class="ss">- </span>Equal or more than 60 minutes will be the "more" group.</span>
+<span id="cb11-52"><a href="#cb11-52" aria-hidden="true" tabindex="-1"></a><span class="ss">- </span>Less than 60 minutes will be the "less" group.  </span>
+<span id="cb11-53"><a href="#cb11-53" aria-hidden="true" tabindex="-1"></a></span>
+<span id="cb11-56"><a href="#cb11-56" aria-hidden="true" tabindex="-1"></a><span class="in">```{r}</span></span>
+<span id="cb11-57"><a href="#cb11-57" aria-hidden="true" tabindex="-1"></a>health <span class="ot">&lt;-</span> health <span class="sc">|&gt;</span> </span>
+<span id="cb11-58"><a href="#cb11-58" aria-hidden="true" tabindex="-1"></a>    <span class="fu">select</span>(<span class="st">`</span><span class="at">Physical Activity Level</span><span class="st">`</span>, <span class="st">`</span><span class="at">Stress Level</span><span class="st">`</span>) <span class="sc">|&gt;</span> </span>
+<span id="cb11-59"><a href="#cb11-59" aria-hidden="true" tabindex="-1"></a>    <span class="fu">mutate</span>(</span>
+<span id="cb11-60"><a href="#cb11-60" aria-hidden="true" tabindex="-1"></a>        <span class="at">Exercise =</span> <span class="fu">if_else</span>(<span class="st">`</span><span class="at">Physical Activity Level</span><span class="st">`</span> <span class="sc">&gt;=</span> <span class="dv">60</span>, <span class="st">"more"</span>, <span class="st">"less"</span>)</span>
+<span id="cb11-61"><a href="#cb11-61" aria-hidden="true" tabindex="-1"></a>    )</span>
+<span id="cb11-62"><a href="#cb11-62" aria-hidden="true" tabindex="-1"></a>health <span class="sc">|&gt;</span> </span>
+<span id="cb11-63"><a href="#cb11-63" aria-hidden="true" tabindex="-1"></a>    <span class="fu">group_by</span>(Exercise) <span class="sc">|&gt;</span> </span>
+<span id="cb11-64"><a href="#cb11-64" aria-hidden="true" tabindex="-1"></a>    <span class="fu">summarize</span>(</span>
+<span id="cb11-65"><a href="#cb11-65" aria-hidden="true" tabindex="-1"></a>        <span class="at">avg_stress =</span> <span class="fu">mean</span>(<span class="st">`</span><span class="at">Stress Level</span><span class="st">`</span>),</span>
+<span id="cb11-66"><a href="#cb11-66" aria-hidden="true" tabindex="-1"></a>        <span class="at">avg_exercise_time =</span> <span class="fu">mean</span>(<span class="st">`</span><span class="at">Physical Activity Level</span><span class="st">`</span>),</span>
+<span id="cb11-67"><a href="#cb11-67" aria-hidden="true" tabindex="-1"></a>        <span class="at">med_exercise_time =</span> <span class="fu">median</span>(<span class="st">`</span><span class="at">Physical Activity Level</span><span class="st">`</span>) </span>
+<span id="cb11-68"><a href="#cb11-68" aria-hidden="true" tabindex="-1"></a>    )</span>
+<span id="cb11-69"><a href="#cb11-69" aria-hidden="true" tabindex="-1"></a></span>
+<span id="cb11-70"><a href="#cb11-70" aria-hidden="true" tabindex="-1"></a><span class="in">```</span></span>
+<span id="cb11-71"><a href="#cb11-71" aria-hidden="true" tabindex="-1"></a></span>
+<span id="cb11-72"><a href="#cb11-72" aria-hidden="true" tabindex="-1"></a>This boxplot visualized the observed </span>
+<span id="cb11-75"><a href="#cb11-75" aria-hidden="true" tabindex="-1"></a><span class="in">```{r}</span></span>
+<span id="cb11-76"><a href="#cb11-76" aria-hidden="true" tabindex="-1"></a>health <span class="sc">|&gt;</span> </span>
+<span id="cb11-77"><a href="#cb11-77" aria-hidden="true" tabindex="-1"></a>    <span class="fu">ggplot</span>(<span class="fu">aes</span>(<span class="at">x =</span> Exercise, <span class="at">y =</span> <span class="st">`</span><span class="at">Stress Level</span><span class="st">`</span>))<span class="sc">+</span></span>
+<span id="cb11-78"><a href="#cb11-78" aria-hidden="true" tabindex="-1"></a>    <span class="fu">geom_boxplot</span>()<span class="sc">+</span></span>
+<span id="cb11-79"><a href="#cb11-79" aria-hidden="true" tabindex="-1"></a>    <span class="fu">labs</span>(<span class="at">x =</span> <span class="st">"Exercise groups"</span>,</span>
+<span id="cb11-80"><a href="#cb11-80" aria-hidden="true" tabindex="-1"></a>    <span class="at">y =</span> <span class="st">"Self-rated Stress Level (1-10)"</span>,</span>
+<span id="cb11-81"><a href="#cb11-81" aria-hidden="true" tabindex="-1"></a>    <span class="at">title =</span> <span class="st">"Stress level by exercise group"</span>)</span>
+<span id="cb11-82"><a href="#cb11-82" aria-hidden="true" tabindex="-1"></a>   </span>
+<span id="cb11-83"><a href="#cb11-83" aria-hidden="true" tabindex="-1"></a><span class="in">```</span></span>
+<span id="cb11-84"><a href="#cb11-84" aria-hidden="true" tabindex="-1"></a></span>
+<span id="cb11-85"><a href="#cb11-85" aria-hidden="true" tabindex="-1"></a>Generate a null sampling distribution.</span>
+<span id="cb11-86"><a href="#cb11-86" aria-hidden="true" tabindex="-1"></a></span>
+<span id="cb11-89"><a href="#cb11-89" aria-hidden="true" tabindex="-1"></a><span class="in">```{r}</span></span>
+<span id="cb11-90"><a href="#cb11-90" aria-hidden="true" tabindex="-1"></a>perm_health <span class="ot">&lt;-</span> <span class="cf">function</span>(rep, health){</span>
+<span id="cb11-91"><a href="#cb11-91" aria-hidden="true" tabindex="-1"></a>    health <span class="sc">|&gt;</span> </span>
+<span id="cb11-92"><a href="#cb11-92" aria-hidden="true" tabindex="-1"></a>        <span class="fu">mutate</span>(<span class="at">stress_perm =</span> <span class="fu">sample</span>(<span class="st">`</span><span class="at">Stress Level</span><span class="st">`</span>, <span class="at">replace =</span> <span class="cn">FALSE</span>)) <span class="sc">|&gt;</span> </span>
+<span id="cb11-93"><a href="#cb11-93" aria-hidden="true" tabindex="-1"></a>        <span class="fu">group_by</span>(Exercise) <span class="sc">|&gt;</span> </span>
+<span id="cb11-94"><a href="#cb11-94" aria-hidden="true" tabindex="-1"></a>        <span class="fu">summarize</span>(</span>
+<span id="cb11-95"><a href="#cb11-95" aria-hidden="true" tabindex="-1"></a>            <span class="at">observe_avg =</span> <span class="fu">mean</span>(<span class="st">`</span><span class="at">Stress Level</span><span class="st">`</span>),</span>
+<span id="cb11-96"><a href="#cb11-96" aria-hidden="true" tabindex="-1"></a>            <span class="at">perm_avg =</span> <span class="fu">mean</span>(stress_perm)</span>
+<span id="cb11-97"><a href="#cb11-97" aria-hidden="true" tabindex="-1"></a>        ) <span class="sc">|&gt;</span> </span>
+<span id="cb11-98"><a href="#cb11-98" aria-hidden="true" tabindex="-1"></a>        <span class="fu">summarize</span>(</span>
+<span id="cb11-99"><a href="#cb11-99" aria-hidden="true" tabindex="-1"></a>            <span class="at">observe_avg_diff =</span> <span class="fu">diff</span>(observe_avg),</span>
+<span id="cb11-100"><a href="#cb11-100" aria-hidden="true" tabindex="-1"></a>            <span class="at">perm_avg_diff =</span> <span class="fu">diff</span>(perm_avg),</span>
+<span id="cb11-101"><a href="#cb11-101" aria-hidden="true" tabindex="-1"></a>            <span class="at">rep =</span> rep</span>
+<span id="cb11-102"><a href="#cb11-102" aria-hidden="true" tabindex="-1"></a>        )</span>
+<span id="cb11-103"><a href="#cb11-103" aria-hidden="true" tabindex="-1"></a>}</span>
+<span id="cb11-104"><a href="#cb11-104" aria-hidden="true" tabindex="-1"></a><span class="in">```</span></span>
+<span id="cb11-105"><a href="#cb11-105" aria-hidden="true" tabindex="-1"></a></span>
+<span id="cb11-108"><a href="#cb11-108" aria-hidden="true" tabindex="-1"></a><span class="in">```{r}</span></span>
+<span id="cb11-109"><a href="#cb11-109" aria-hidden="true" tabindex="-1"></a><span class="fu">set.seed</span>(<span class="dv">5000</span>) <span class="co">#fix the results of this shuffle</span></span>
+<span id="cb11-110"><a href="#cb11-110" aria-hidden="true" tabindex="-1"></a>perm_stats <span class="ot">&lt;-</span> <span class="fu">map</span>(<span class="fu">c</span>(<span class="dv">1</span><span class="sc">:</span><span class="dv">5000</span>), perm_health, health) <span class="sc">|&gt;</span> </span>
+<span id="cb11-111"><a href="#cb11-111" aria-hidden="true" tabindex="-1"></a>    <span class="fu">list_rbind</span>()</span>
+<span id="cb11-112"><a href="#cb11-112" aria-hidden="true" tabindex="-1"></a></span>
+<span id="cb11-113"><a href="#cb11-113" aria-hidden="true" tabindex="-1"></a>perm_stats <span class="sc">|&gt;</span> </span>
+<span id="cb11-114"><a href="#cb11-114" aria-hidden="true" tabindex="-1"></a>    <span class="fu">ggplot</span>(<span class="fu">aes</span>(<span class="at">x =</span> perm_avg_diff))<span class="sc">+</span></span>
+<span id="cb11-115"><a href="#cb11-115" aria-hidden="true" tabindex="-1"></a>    <span class="fu">geom_histogram</span>(<span class="at">binwidth =</span> .<span class="dv">07</span>)<span class="sc">+</span></span>
+<span id="cb11-116"><a href="#cb11-116" aria-hidden="true" tabindex="-1"></a>    <span class="fu">geom_vline</span>(<span class="fu">aes</span>(<span class="at">xintercept =</span> observe_avg_diff, <span class="at">color =</span> <span class="st">"Observed average difference </span><span class="sc">\n</span><span class="st">-0.72"</span>))<span class="sc">+</span></span>
+<span id="cb11-117"><a href="#cb11-117" aria-hidden="true" tabindex="-1"></a>    <span class="fu">scale_color_manual</span>(<span class="at">values =</span> <span class="fu">c</span>(<span class="st">"Observed average difference </span><span class="sc">\n</span><span class="st">-0.72"</span> <span class="ot">=</span> <span class="st">"red"</span>))<span class="sc">+</span></span>
+<span id="cb11-118"><a href="#cb11-118" aria-hidden="true" tabindex="-1"></a>    <span class="fu">labs</span>(</span>
+<span id="cb11-119"><a href="#cb11-119" aria-hidden="true" tabindex="-1"></a>        <span class="at">title =</span> <span class="st">"Null sampling distribution (Average)"</span>,</span>
+<span id="cb11-120"><a href="#cb11-120" aria-hidden="true" tabindex="-1"></a>        <span class="at">subtitle =</span> <span class="st">"Bindwisth = .07"</span>,</span>
+<span id="cb11-121"><a href="#cb11-121" aria-hidden="true" tabindex="-1"></a>        <span class="at">x =</span> <span class="st">"Permuted difference in average stress (more minus less)"</span>,</span>
+<span id="cb11-122"><a href="#cb11-122" aria-hidden="true" tabindex="-1"></a>        <span class="at">y =</span> <span class="st">"Number of shuffles"</span></span>
+<span id="cb11-123"><a href="#cb11-123" aria-hidden="true" tabindex="-1"></a>    )</span>
+<span id="cb11-124"><a href="#cb11-124" aria-hidden="true" tabindex="-1"></a><span class="in">```</span></span>
+<span id="cb11-125"><a href="#cb11-125" aria-hidden="true" tabindex="-1"></a></span>
+<span id="cb11-126"><a href="#cb11-126" aria-hidden="true" tabindex="-1"></a>P-value</span>
+<span id="cb11-127"><a href="#cb11-127" aria-hidden="true" tabindex="-1"></a></span>
+<span id="cb11-130"><a href="#cb11-130" aria-hidden="true" tabindex="-1"></a><span class="in">```{r}</span></span>
+<span id="cb11-131"><a href="#cb11-131" aria-hidden="true" tabindex="-1"></a>perm_stats <span class="sc">|&gt;</span></span>
+<span id="cb11-132"><a href="#cb11-132" aria-hidden="true" tabindex="-1"></a>  <span class="fu">summarize</span>(</span>
+<span id="cb11-133"><a href="#cb11-133" aria-hidden="true" tabindex="-1"></a>    <span class="at">p_val_ave =</span> <span class="fu">mean</span>(observe_avg_diff <span class="sc">&gt;</span> perm_avg_diff))</span>
+<span id="cb11-134"><a href="#cb11-134" aria-hidden="true" tabindex="-1"></a><span class="in">```</span></span>
 </code></pre></div><button title="Copy to Clipboard" class="code-copy-button" data-in-quarto-modal=""><i class="bi"></i></button></div>
 </div></div></div></div></div>
 </div> <!-- /content -->
